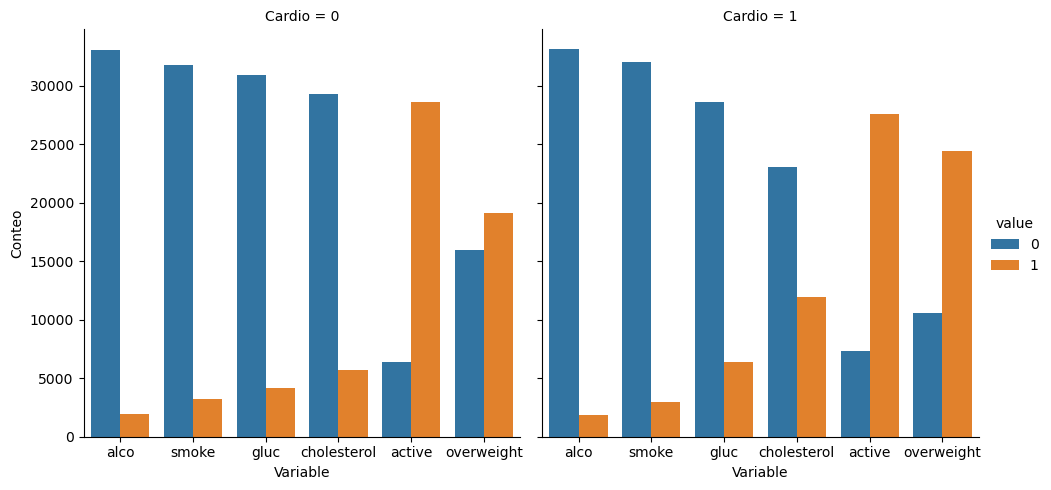
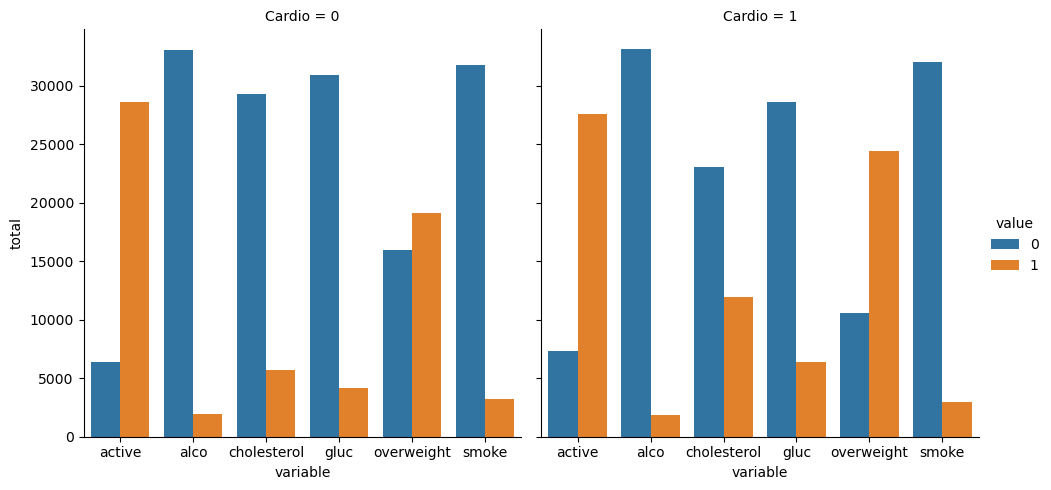
changed the order in which variables appear to pass the tests

diff --git a/medical_data_visualizer.py b/medical_data_visualizer.py
@@ -17,7 +17,6 @@ df['gluc'] = (df['gluc'] > 1).astype(int)
 
 # 4
 def draw_cat_plot():
-    # 1. Convertir el DataFrame a formato largo
     df_cat = pd.melt(
         df, 
         id_vars=["cardio"], 
@@ -25,8 +24,7 @@ def draw_cat_plot():
         var_name="variable", 
         value_name="value"    
     )
-
-    #df_cat = df_cat.groupby(["cardio", "variable", "value"]).size().reset_index(name="count")
+    
     df_cat = df_cat.groupby("cardio").value_counts()
     df_cat = df_cat.reset_index()
 
@@ -40,12 +38,12 @@ def draw_cat_plot():
         data=df_cat,   
         kind="bar",    
         height=5,      
-        aspect=1       
+        aspect=1  ,
+        order = ['active', 'alco', 'cholesterol', 'gluc', 'overweight', 'smoke']     
     )
 
-    cat_plot.set_axis_labels("Variable", "Conteo")
+    cat_plot.set_axis_labels("variable", "total")
     cat_plot.set_titles("Cardio = {col_name}")
-    #cat_plot.despine(left=True)
     plt.show()
 
     # 8
